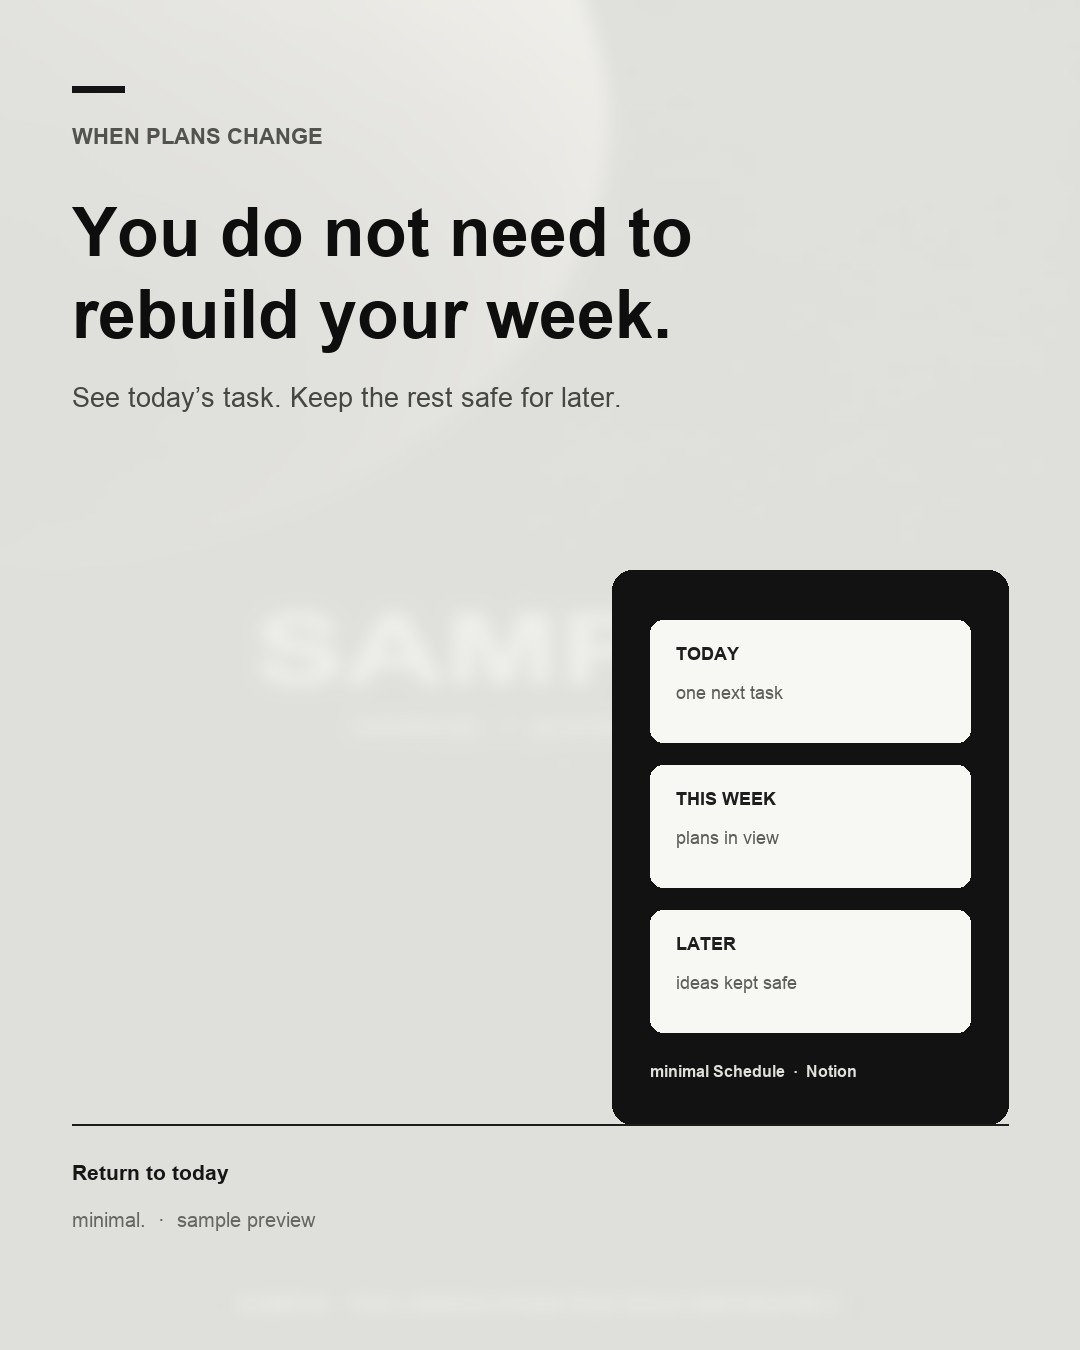
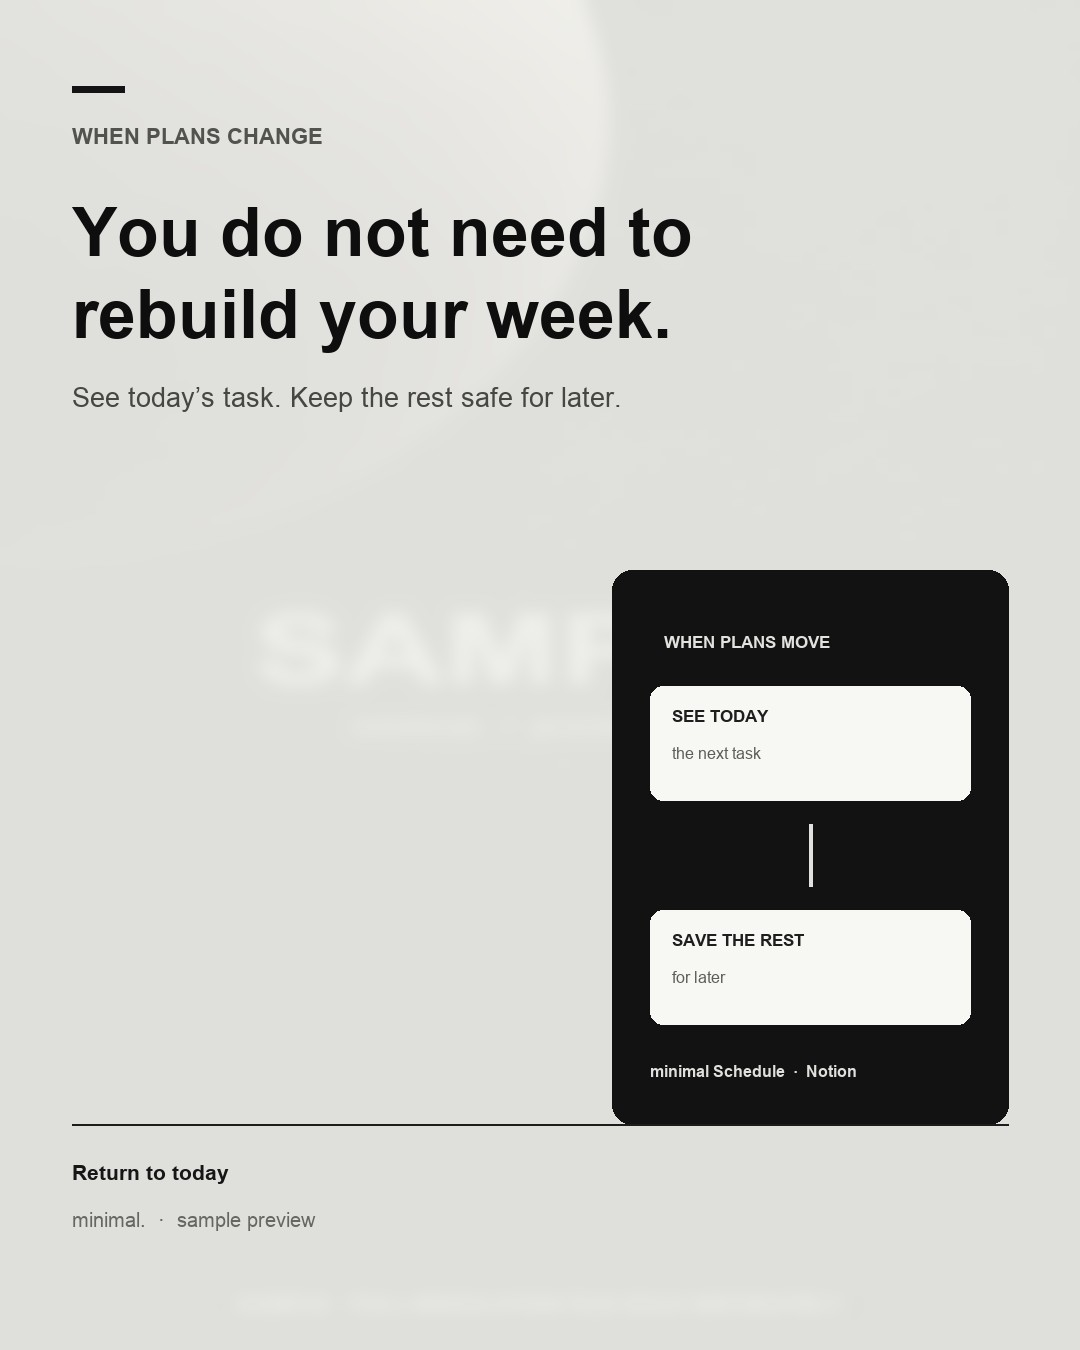
Match Schedule visuals to each customer moment

Changed region(s): [[0.5806, 0.4356, 0.9167, 0.7778]]

diff --git a/tools/make_clear_social_cards.py b/tools/make_clear_social_cards.py
@@ -53,16 +53,63 @@ def card(filename, eyebrow, headline, detail, label, japanese=False, sample=SAMP
     # Preview shows the product in use, while text says why it matters.
     planner_files = {"post-01.jpg", "post-02.jpg", "post-07.jpg", "post-08.jpg", "post-11.jpg", "post-12.jpg", "post-13.jpg"}
     if filename in planner_files:
-        # Show the planner concept itself instead of an unrelated wallpaper.
+        # Each planning post illustrates its *specific* everyday problem.  This
+        # avoids a generic repeated mockup while keeping the product legible.
         panel = (612, 570, 1008, 1124)
         draw.rounded_rectangle(panel, radius=20, fill=(18, 18, 18, 255))
-        labels = [("TODAY", "one next task"), ("THIS WEEK", "plans in view"), ("LATER", "ideas kept safe")]
-        y_card = 620
-        for heading, small in labels:
-            draw.rounded_rectangle((650, y_card, 970, y_card + 122), radius=13, fill=(247, 247, 243, 255))
-            draw.text((676, y_card + 23), heading, font=font(18, bold=True), fill=(30, 30, 30, 255))
-            draw.text((676, y_card + 62), small, font=font(18), fill=(93, 93, 89, 255))
-            y_card += 145
+        def white_box(x1, y1, x2, y2, heading, sub=""):
+            draw.rounded_rectangle((x1, y1, x2, y2), radius=13, fill=(247, 247, 243, 255))
+            draw.text((x1 + 22, y1 + 20), heading, font=font(17, bold=True), fill=(30, 30, 30, 255))
+            if sub:
+                draw.text((x1 + 22, y1 + 58), sub, font=font(16), fill=(93, 93, 89, 255))
+        if filename == "post-01.jpg":
+            # Repeated mental reminders become one trusted place.
+            white_box(650, 620, 970, 700, "reply to this", "an idea")
+            white_box(650, 724, 970, 804, "appointment", "something to buy")
+            draw.polygon([(800, 828), (832, 828), (816, 858)], fill=(220, 220, 215, 255))
+            draw.rounded_rectangle((650, 880, 970, 1008), radius=13, fill=(220, 220, 215, 255))
+            draw.text((674, 910), "ONE PLACE", font=font(18, bold=True), fill=(18, 18, 18, 255))
+            draw.text((674, 950), "plans · tasks · ideas", font=font(17), fill=(65, 65, 61, 255))
+        elif filename == "post-02.jpg":
+            # Three sources converge instead of adding another system.
+            white_box(650, 636, 798, 742, "PLANS")
+            white_box(822, 636, 970, 742, "TASKS")
+            white_box(736, 770, 884, 876, "IDEAS")
+            draw.line((724, 742, 810, 932), fill=(220, 220, 215, 255), width=4)
+            draw.line((896, 742, 810, 932), fill=(220, 220, 215, 255), width=4)
+            draw.line((810, 876, 810, 932), fill=(220, 220, 215, 255), width=4)
+            white_box(684, 948, 936, 1034, "ONE CALM PLACE")
+        elif filename == "post-07.jpg":
+            white_box(650, 630, 970, 734, "PLAN CHANGED", "this part can wait")
+            draw.line((672, 654, 948, 710), fill=(185, 185, 180, 255), width=3)
+            white_box(650, 780, 970, 918, "TODAY", "one next task")
+            draw.ellipse((672, 950, 700, 978), fill=(220, 220, 215, 255))
+            draw.text((720, 950), "return here", font=font(18, bold=True), fill=(225, 225, 222, 255))
+        elif filename == "post-08.jpg":
+            draw.text((664, 632), "WHEN PLANS MOVE", font=font(17, bold=True), fill=(225, 225, 222, 255))
+            white_box(650, 686, 970, 800, "SEE TODAY", "the next task")
+            draw.line((810, 824, 810, 886), fill=(225, 225, 222, 255), width=4)
+            white_box(650, 910, 970, 1024, "SAVE THE REST", "for later")
+        elif filename == "post-11.jpg":
+            draw.text((660, 628), "START HERE", font=font(18, bold=True), fill=(225, 225, 222, 255))
+            draw.text((660, 696), "01", font=font(78, bold=True), fill=(225, 225, 222, 255))
+            white_box(650, 820, 970, 952, "ONE TASK", "enough for today")
+        elif filename == "post-12.jpg":
+            draw.ellipse((660, 654, 716, 710), fill=(247, 247, 243, 255))
+            draw.text((678, 667), "1", font=font(19, bold=True), fill=(18, 18, 18, 255))
+            draw.text((742, 666), "START WITH TODAY", font=font(17, bold=True), fill=(225, 225, 222, 255))
+            draw.line((688, 730, 688, 806), fill=(225, 225, 222, 255), width=4)
+            draw.ellipse((660, 828, 716, 884), fill=(247, 247, 243, 255))
+            draw.text((678, 841), "2", font=font(19, bold=True), fill=(18, 18, 18, 255))
+            draw.text((742, 840), "SAVE THE REST", font=font(17, bold=True), fill=(225, 225, 222, 255))
+            draw.text((742, 878), "one safe place", font=font(16), fill=(178, 178, 174, 255))
+        else:  # post-13: write down next week rather than holding it in mind.
+            draw.text((660, 630), "NEXT WEEK", font=font(18, bold=True), fill=(225, 225, 222, 255))
+            for row in range(2):
+                for col in range(3):
+                    x, y = 660 + col * 104, 684 + row * 96
+                    draw.rounded_rectangle((x, y, x + 80, y + 70), radius=9, fill=(247, 247, 243, 255))
+            white_box(650, 914, 970, 1018, "WRITE IT DOWN", "you do not have to remember")
         draw.text((650, 1062), "minimal Schedule  ·  Notion", font=font(16, bold=True), fill=(224, 224, 220, 255))
     else:
         preview = Image.open(sample).convert("RGB").resize((330, 586), Image.Resampling.LANCZOS)
